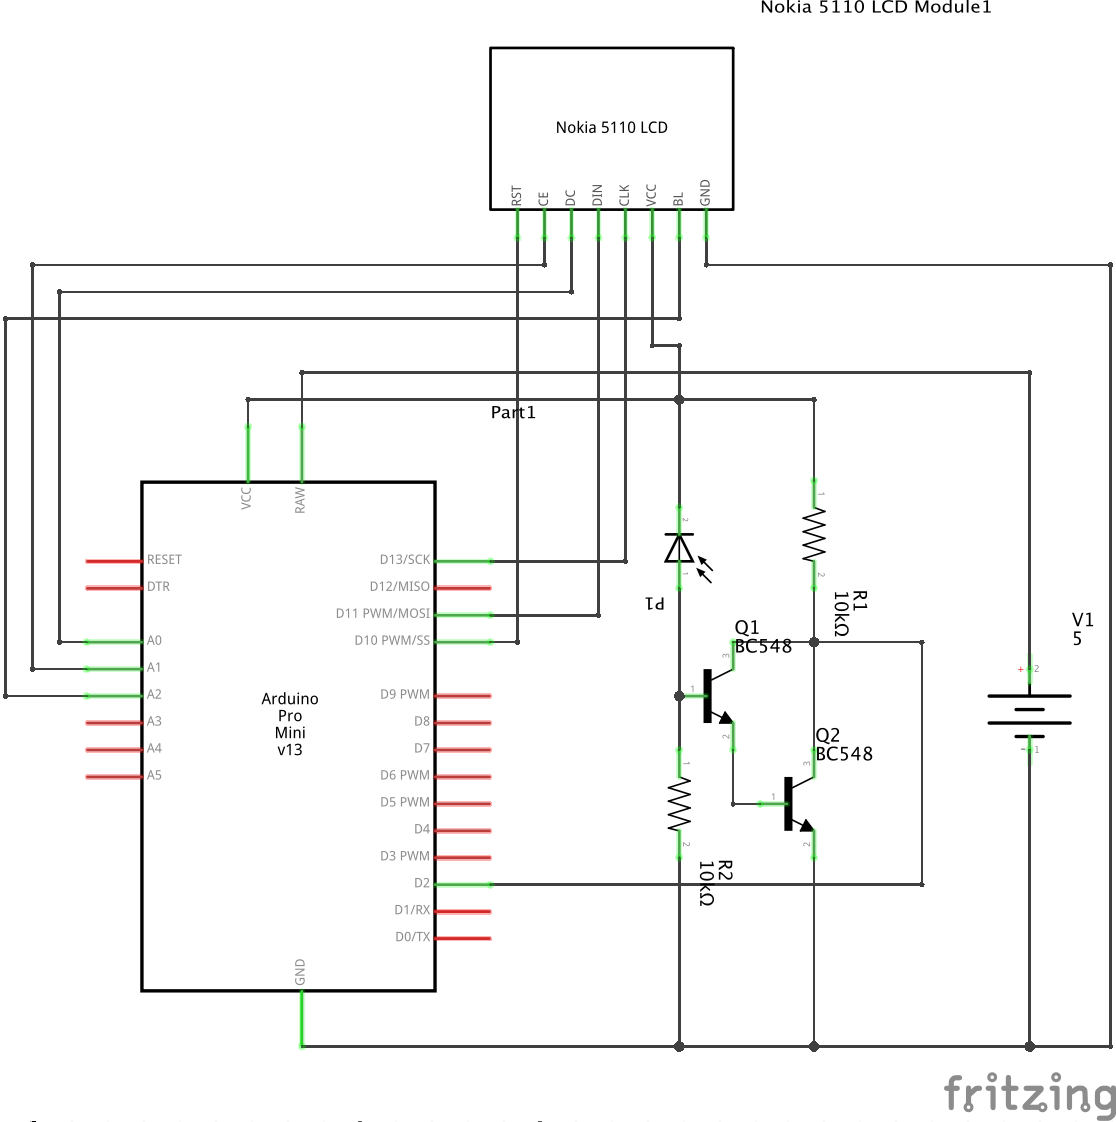
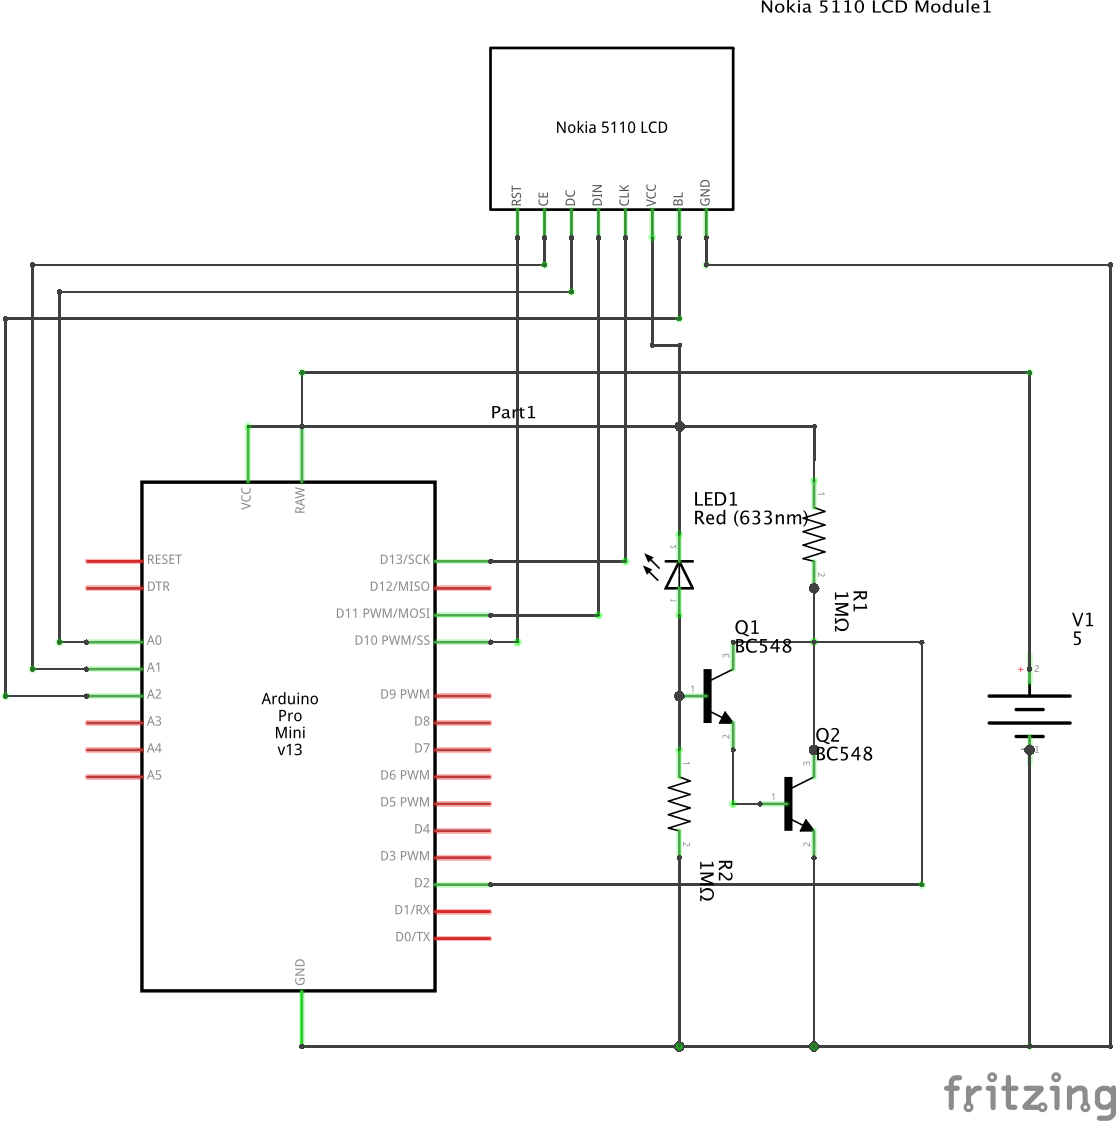
Switch from IR to laser for increased range

diff --git a/README.md b/README.md
@@ -1,6 +1,6 @@
 ## TripWire
 
-An Arduino sketch to count the number of times an IR tripwire is broken and display the count on an LCD screen.
+An Arduino sketch to count the number of times a laser tripwire is broken and display the count on an LCD screen.
 
 ## Wiring Diagram
 
@@ -11,9 +11,9 @@ An Arduino sketch to count the number of times an IR tripwire is broken and disp
 The build will consist of
 
 * [Sparkfun Pro Micro](https://learn.sparkfun.com/tutorials/pro-micro--fio-v3-hookup-guide/hardware-overview-pro-micro) clone
-* TEFD4300F [IR Photodiode + Darlington pair](http://www.instructables.com/id/Infrared-IR-tripwire-module/step2/How-it-works/)
+* [LED (in reverse bias) + Darlington pair](http://www.instructables.com/id/Infrared-IR-tripwire-module/step2/How-it-works/)
 * Nokia 5110 type LCD screen (to display the trip count)
-* TSUS5202 IR LED (to provide the IR beam)
+* [5V Laser Diode](http://www.ebay.co.uk/itm/2-x-5v-650nm-Red-Laser-Diode-/271822463307?pt=LH_DefaultDomain_3&hash=item3f49e1a14b)
 
 ## Requirements
 
